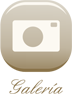
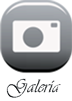
cambio estilo

diff --git a/index.html b/index.html
@@ -1,13 +1,7 @@
 <html manifest="demo.manifest"><head>
 		<meta charset="utf-8">
 		<meta name="viewport" content="width=device-width, initial-scale=1.0, user-scalable=0, minimum-scale=1.0, maximum-scale=1.0">
-		<meta name="apple-touch-fullscreen" content="yes">
-		<meta name="apple-mobile-web-app-capable" content="yes">
-		<meta name="apple-mobile-web-app-status-bar-style" content="black">
-		<link rel="apple-touch-icon" href="imagenes/icono.png">
-        <link rel="apple-touch-startup-image" href="imagenes/start.png">
 		<title>Alex y Raquel</title>
-		<script type="text/javascript" charset="utf-8" src="cordova-1.5.0.js"></script>
 		<link rel="stylesheet" href="http://code.jquery.com/mobile/1.0.1/jquery.mobile-1.0.1.min.css">
 		<link rel="stylesheet" media="all and (orientation:portrait)" href="style.css">
 		<link rel="stylesheet" media="all and (orientation:landscape)" href="style_apaisado.css">
@@ -65,14 +59,25 @@
 			});
 		}(window, window.jQuery, window.Code.PhotoSwipe));
 		
-		
+		$(function() {
+  setTimeout(hideSplash, 2000);
+});
+
+function hideSplash() {
+  $.mobile.changePage("#menu", "fade");
+}
 		</script>
+        
 	</head>
 	<body>
 		<!-- Menú principal -->
+        <div data-role="page" data-theme="b" id="intro"> 
+    		<img  class="caja-intro" src="imagenes/intro-cabecera.png" alt="intro" />
+		</div>
+
+        
 		<div data-role="page" id="menu" class="fondo">
-			<div data-role="content">
-				<img id="logo" src="imagenes/logo.png">
+			<div data-role="content" id="menu-logos">
 				<div class="ui-grid-a" align="center" id="grid">
 					<div class="ui-block-a">
 						<a href="#nosotros" data-transition="slide"> <img src="imagenes/nosotros.png"></a>
@@ -81,17 +86,21 @@
 						<a href="#ceremonia" data-transition="slide"> <img src="imagenes/ceremonia.png"> </a>
 					</div>
 				</div>
-				<div class="ui-grid-b" align="center" id="grid">
+				<div class="ui-grid-b" align="center" id="grid" style="margin-top:20px;">
 					<div class="ui-block-a">
 						<a href="#banquete" data-transition="slide"> <img src="imagenes/banquete.png"> </a>
 					</div>
 					<div class="ui-block-b">
-						<a href="#contacta" data-transition="slide"> <img src="imagenes/contacta.png"> </a>
+						<a href="#regalo" data-transition="slide"> <img src="imagenes/regalo.png"> </a>
 					</div>
 					<div class="ui-block-c">
 						<a href="#galeria" data-transition="slide"> <img src="imagenes/galeria.png"> </a>
 					</div>
-				</div>
+                                
+                     </div>
+						
+    		<img  class="caja-intro" src="imagenes/logo.png" alt="intro" style="margin-top:20%" />
+
 			</div>
 		</div>
 		<!-- Nosotros -->
@@ -105,6 +114,18 @@
 				<p>
 					Alex, de 31 años, nacido en Casillas y de profesión informático, ha decidido celebrar una gran fiesta. <br>El motivo no puede ser mejor: celebrar su boda con Raquel para la que cuenta con todos sus amigos y familiares.
 				</p>
+                				<ul data-role="listview" data-inset="true">
+					
+					<li>
+						<a href="tel:659901008">
+						<div class="icono-en-lista"><img src="imagenes/movil.png">
+						</div> <h1>Teléfono móvil</h1>
+						<p>
+							659 90 10 08
+						</p></a>
+					</li>
+				</ul>
+
 			</div>
 			<div data-role="footer" data-id="infoFooter" data-position="fixed">
 				<div data-role="navbar">
@@ -130,6 +151,19 @@
 				<p>
 					Raquel, de 28 años, nacida en Cobatillas y de profesión artista, está preparando junto con Alex una gran fiesta de celebración con motivo de su próxima boda en la que estarán todos sus amigos y familiares.
 				</p>
+               <ul data-role="listview" data-inset="true">
+					
+					<li>
+						<a href="tel:690120495">
+						<div class="icono-en-lista"><img src="imagenes/movil.png">
+						</div> <h1>Teléfono móvil</h1>
+						<p>
+							690 120 495
+						</p></a>
+					</li>
+					
+				</ul>
+
 			</div>
 			<div data-role="footer" data-id="infoFooter" data-position="fixed">
 				<div data-role="navbar">
@@ -276,103 +310,15 @@
 			</div>
 		</div>
 		<!-- Contacta -->
-		<div data-role="page" class="fondo" id="contacta">
-			<div data-role="header" data-position="fixed">
-				<a href="#menu" data-icon="home" data-transition="slide" data-direction="reverse">Menú</a>
-				<h1> Contacta </h1>
-			</div>
-			<div data-role="content">
-				<ul data-role="listview" data-inset="true">
-					
-					<li>
-						<a href="tel:659901008">
-						<div class="icono-en-lista"><img src="imagenes/movil.png">
-						</div> <h1>Teléfono móvil</h1>
-						<p>
-							659 90 10 08
-						</p></a>
-					</li>
-				</ul>
-			</div>
-			<div data-role="footer" data-id="contactaFooter" data-position="fixed">
-				<div data-role="navbar">
-					<ul>
-						<li>
-							<a href="#contacta" class="ui-btn-active" id="btn-active" data-transition="flip">Con Alex</a>
-						</li>
-						<li>
-							<a href="#contactab" data-transition="flip">Con Raquel</a>
-						</li>
-					</ul>
-				</div>
-			</div>
-		</div>
-		<!-- Contacta B -->
-		<div data-role="page" class="fondo" id="contactab">
-			<div data-role="header" data-position="fixed">
-				<a href="#menu" data-icon="home" data-transition="slide" data-direction="reverse">Menú</a>
-				<h1> Contacta </h1>
-			</div>
-			<div data-role="content">
-				<ul data-role="listview" data-inset="true">
-					
-					<li>
-						<a href="tel:690120495">
-						<div class="icono-en-lista"><img src="imagenes/movil.png">
-						</div> <h1>Teléfono móvil</h1>
-						<p>
-							690 120 495
-						</p></a>
-					</li>
-					
-				</ul>
-			</div>
-			<div data-role="footer" data-id="contactaFooter" data-position="fixed">
-				<div data-role="navbar">
-					<ul>
-						<li>
-							<a href="#contacta" data-transition="flip">Con Alex</a>
-						</li>
-						<li>
-							<a href="#contactab" class="ui-btn-active" id="btn-active" data-transition="flip">Con Raquel</a>
-						</li>
-					</ul>
-				</div>
-			</div>
-		</div>
 		<!-- Lista de boda -->
-		<div data-role="page" class="fondolargo" id="lista">
+		<div data-role="page" class="fondolargo" id="regalo">
 			<div data-role="header" data-position="fixed">
 				<a href="#menu" data-icon="home" data-transition="slide" data-direction="reverse">Menú</a>
-				<h1> Lista de boda </h1>
+				<h1> Regalo </h1>
 			</div>
 			<div data-role="content">
-				<ul data-role="listview" data-inset="true">
-					<li>
-						<h1>Cámara video</h1>
-					</li>
-					<li>
-						<h1>Cámara fotos</h1>
-					</li>
-					<li>
-						<h1>Televisor TFT</h1>
-					</li>
-					<li>
-						<h1>Lavabajillas</h1>
-					</li>
-					<li>
-						<h1>Lavadora</h1>
-					</li>
-					<li>
-						<h1>Batidora</h1>
-					</li>
-					<li>
-						<h1>Colchón</h1>
-					</li>
-					<li>
-						<h1>Sofá</h1>
-					</li>
-				</ul>
+				<p>El número de cuenta es el:</p>
+                IBAN: XXXXXXXXXXXXXXXXXXXXXXXXXX
 			</div>
 		</div>
 		<!-- Galería -->

diff --git a/style_apaisado.css b/style_apaisado.css
@@ -1,43 +1,84 @@
 #logo
 { 
-	width: 0%;
+	display: block;
+	margin-left: auto;
+	margin-right: auto;
+	margin-top: 25px;
 }
 
-#grid{
-	margin-top: -20px;
-}
 .fondo
 {
-    background-image: url("imagenes/fondoapaisado.jpg");
+    background-image: url("imagenes/thin.jpg");
     background-attachment:fixed;
     background-repeat: no-repeat;
     background-size: 100% 100%;
+	text-align:center;
+	margin-left:auto;
+	margin-right:auto;
+
 }
+
+#intro{
+     background-image: url("imagenes/thin.jpg");
+    background-attachment:fixed;
+    background-repeat: no-repeat;
+    background-size: 100% 100%;
+	text-align:center;
+	margin-left:auto;
+	margin-right:auto;
+}
+.caja-intro {
+	margin-left:auto;
+	margin-right:auto;
+
+/*
+position:absolute;
+left:5%;
+bottom:20%;
+*/
+}
+
+.ui-content{
+	overflow:inherit;
+}
+
+#menu-logos{
+	margin-top:5%;
+}
+
 .fondolargo
 {
-     background-image: url("imagenes/fondoexpansible.jpg");
+    background-image: url("imagenes/thin.jpg");
 }
 
 #galeria
 {
-    background-image: url("imagenes/fondoapaisado.jpg");
+    background-image: url("imagenes/thin.jpg");
     background-attachment:fixed;
     background-repeat: no-repeat;
     background-size: 100% 100%;
 }
 
+
 .letramenu{
+	margin-bottom: 10px;
 	margin-top: -3px;
 	font-weight: bold;
 	color: #996633;
 }
-
+	
 #btn-active{
 	background:#ffcc33 !important;
-}		
+}
 
 .imagen{
 	display: block;
 	margin-left: auto;
 	margin-right: auto;
 }		
+
+.icono-en-lista {
+        float: left; 
+        margin: 3% 5% 0% 0%; 
+        text-align: center; 
+}

diff --git a/style.css b/style.css
@@ -8,22 +8,52 @@
 
 .fondo
 {
-    background-image: url("imagenes/fondo.jpg");
+    background-image: url("imagenes/thin.jpg");
     background-attachment:fixed;
     background-repeat: no-repeat;
     background-size: 100% 100%;
+	text-align:center;
+	margin-left:auto;
+	margin-right:auto;
+
 }
 
+#intro{
+     background-image: url("imagenes/thin.jpg");
+    background-attachment:fixed;
+    background-repeat: no-repeat;
+    background-size: 100% 100%;
+	text-align:center;
+	margin-left:auto;
+	margin-right:auto;
+}
+.caja-intro {
+		margin-left:auto;
+	margin-right:auto;
 
+/*
+position:absolute;
+left:5%;
+bottom:20%;
+*/
+}
+
+.ui-content{
+	overflow:inherit;
+}
+
+#menu-logos{
+	margin-top:20%;
+}
 
 .fondolargo
 {
-    background-image: url("imagenes/fondoexpansible.jpg");
+    background-image: url("imagenes/thin.jpg");
 }
 
 #galeria
 {
-    background-image: url("imagenes/fondo.jpg");
+    background-image: url("imagenes/thin.jpg");
     background-attachment:fixed;
     background-repeat: no-repeat;
     background-size: 100% 100%;
